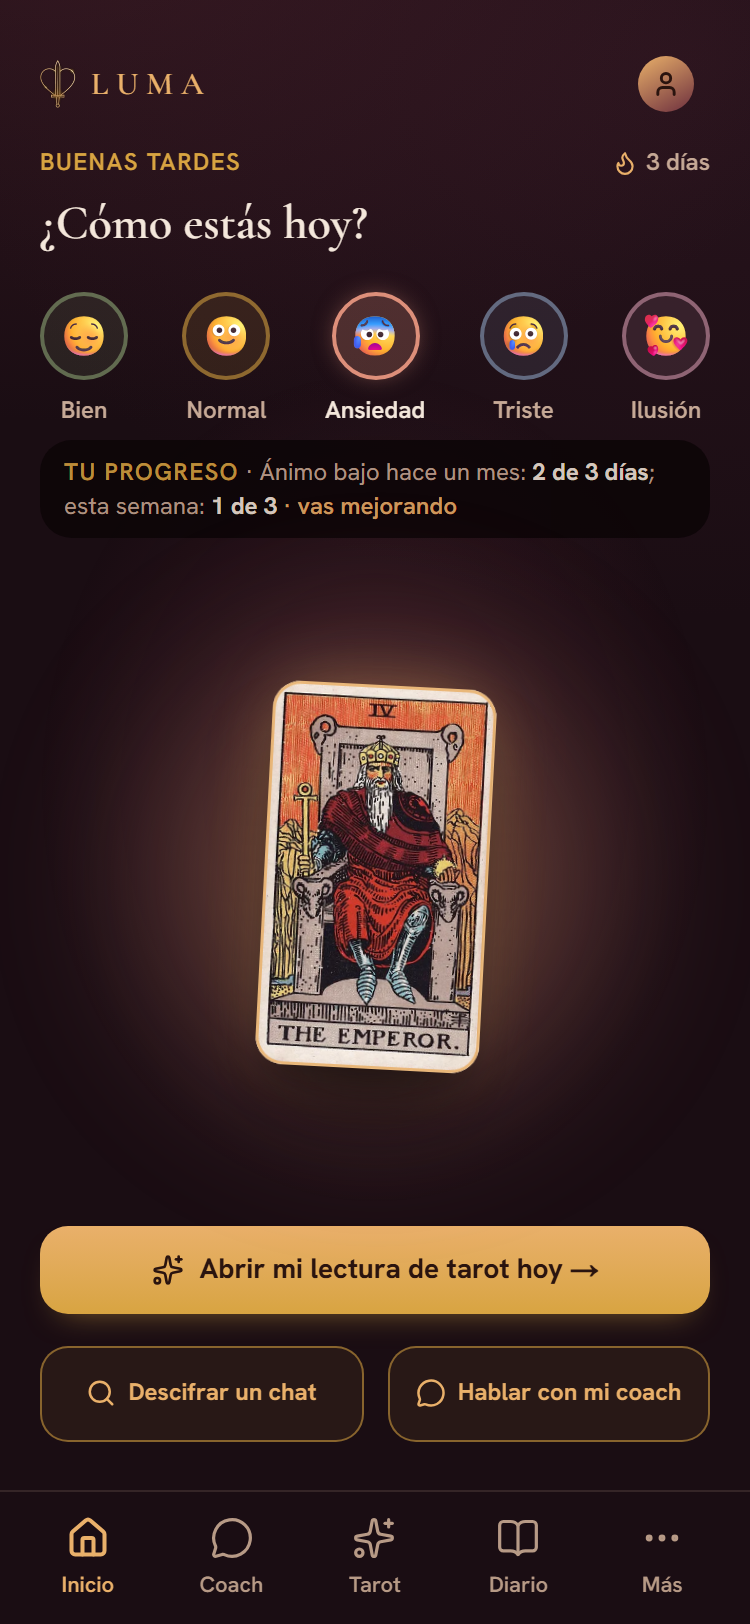
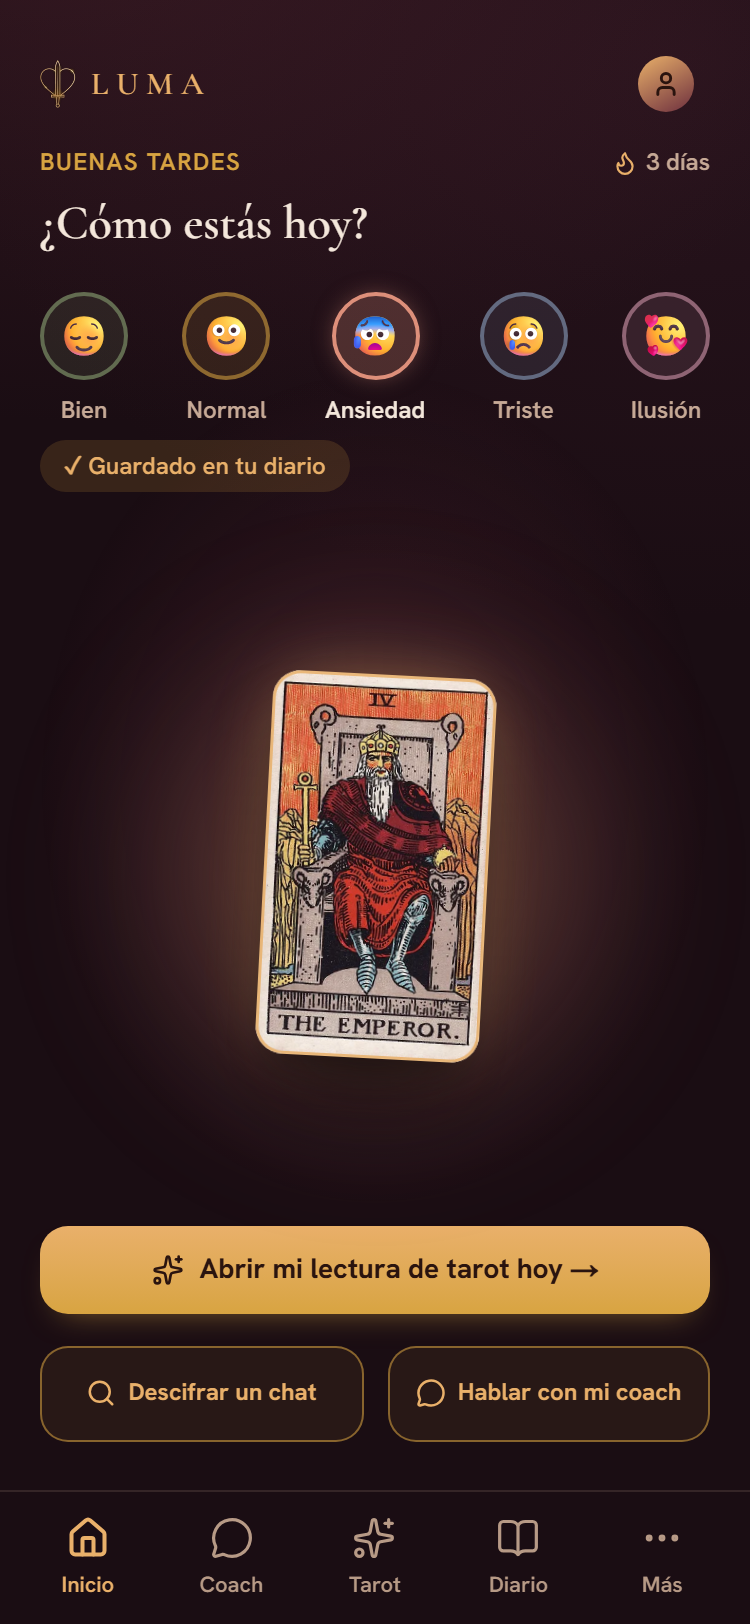
feat(inicio): pulso al guardar el ánimo, racha que cuenta y cajita de progreso en una sola idea

Changed region(s): [[0.3373, 0.4002, 0.6747, 0.6773], [0.0307, 0.2463, 0.6133, 0.3387], [0.644, 0.2771, 0.8587, 0.3079]]

diff --git a/app/app/(tabs)/page.tsx b/app/app/(tabs)/page.tsx
@@ -8,7 +8,7 @@
 
 import { useEffect, useRef, useState } from 'react';
 import Link from 'next/link';
-import { motion, AnimatePresence } from 'motion/react';
+import { motion, AnimatePresence, animate, useReducedMotion } from 'motion/react';
 import { Flame, MessageCircle, Search, Sparkles, User } from 'lucide-react';
 import { CartaGirando } from '@/components/app/CartaGirando';
 import { arcanoMayorAlAzar } from '@/lib/tarotDeck';
@@ -35,6 +35,9 @@ export default function InicioPage() {
   const [animo, setAnimo] = useState<string | null>(null);
   const [aviso, setAviso] = useState<'guardando' | 'guardado' | 'error' | null>(null);
   const [animoGuardado, setAnimoGuardado] = useState<string | null>(null);
+  const [pulso, setPulso] = useState(0);
+  const reducir = useReducedMotion();
+  const [rachaMostrada, setRachaMostrada] = useState(0);
   const temporizadorAviso = useRef<number | null>(null);
   useEffect(
     () => () => {
@@ -58,6 +61,16 @@ export default function InicioPage() {
     const carta = arcanoMayorAlAzar();
     setArcano({ nombre: carta.nombre, image: carta.image });
   }, []);
+
+  // La racha cuenta de 0 al valor real al llegar (con «reducir movimiento» aparece ya completa).
+  useEffect(() => {
+    if (racha < 2 || reducir) {
+      setRachaMostrada(racha);
+      return;
+    }
+    const control = animate(0, racha, { duration: 0.7, ease: 'easeOut', onUpdate: (v) => setRachaMostrada(Math.round(v)) });
+    return () => control.stop();
+  }, [racha, reducir]);
 
   useEffect(() => {
     const h = new Date().getHours();
@@ -138,6 +151,7 @@ export default function InicioPage() {
         return;
       }
       setAnimoGuardado(id);
+      setPulso((n) => n + 1);
       mostrarAviso('guardado');
       const desde = new Date();
       desde.setDate(desde.getDate() - VENTANA_DIAS);
@@ -189,7 +203,7 @@ export default function InicioPage() {
             {racha >= 2 && (
               <span className="flex items-center gap-1 text-[12px] font-semibold text-[var(--text-secondary)]">
                 <Flame size={13} strokeWidth={2} aria-hidden="true" className="text-[var(--accent-lite)]" />
-                {racha} días
+                {rachaMostrada} días
               </span>
             )}
           </div>
@@ -197,7 +211,7 @@ export default function InicioPage() {
             ¿Cómo estás hoy?
           </h1>
           <div className="mt-4 [@media(max-height:620px)]:mt-2">
-            <MoodPicker emociones={EMOCIONES_INICIO} seleccion={animo} onSeleccionar={elegirAnimo} bloqueado={aviso === 'guardando'} />
+            <MoodPicker emociones={EMOCIONES_INICIO} seleccion={animo} onSeleccionar={elegirAnimo} bloqueado={aviso === 'guardando'} pulso={pulso} />
           </div>
           {/* Justo debajo de los emojis: el aviso «Guardado en tu diario» y la cajita «Tu progreso» comparten el mismo hueco
               (el aviso sustituye a la cajita 2 s) para que no cambie la altura de la pantalla. La cajita es de 2 líneas: la
@@ -241,14 +255,14 @@ export default function InicioPage() {
                     className="rounded-[var(--radius-card)] bg-[color-mix(in_oklab,var(--bg)_70%,black)] px-3 py-2"
                   >
                     <p className="text-[12px] leading-snug text-[var(--text-secondary)]">
-                      <span className="font-semibold uppercase tracking-[0.06em] text-[var(--accent)]">Tu progreso</span> · Ánimo bajo hace un
-                      mes:{' '}
-                      <strong className="text-[var(--text-primary)]">
-                        {termometro.haceUnMes.negativos} de {termometro.haceUnMes.total} días
-                      </strong>
-                      ; esta semana:{' '}
+                      <span className="font-semibold uppercase tracking-[0.06em] text-[var(--accent)]">Tu progreso</span> · Días con ansiedad o
+                      tristeza: esta semana{' '}
                       <strong className="text-[var(--text-primary)]">
                         {termometro.estaSemana.negativos} de {termometro.estaSemana.total}
+                      </strong>
+                      , hace un mes{' '}
+                      <strong className="text-[var(--text-primary)]">
+                        {termometro.haceUnMes.negativos} de {termometro.haceUnMes.total}
                       </strong>
                       {termometro.estaSemana.negativos / termometro.estaSemana.total <
                         termometro.haceUnMes.negativos / termometro.haceUnMes.total && (

diff --git a/components/app/MoodPicker.tsx b/components/app/MoodPicker.tsx
@@ -4,7 +4,7 @@
 // propio por emoción, funcional (marca selección) no decorativo. Reutilizada en
 // Inicio (check-in del día) y Diario (registro emocional) con distintos sets.
 
-import { motion } from 'motion/react';
+import { motion, useReducedMotion } from 'motion/react';
 
 export interface Emocion {
   id: string;
@@ -19,13 +19,17 @@ export function MoodPicker({
   seleccion,
   onSeleccionar,
   bloqueado = false,
+  pulso = 0,
 }: {
   emociones: Emocion[];
   seleccion: string | null;
   onSeleccionar: (id: string) => void;
   /** Mientras se guarda: no admite más toques (cada toque guardaría un registro nuevo). */
   bloqueado?: boolean;
+  /** Sube cada vez que se confirma un guardado: el aro elegido da un pequeño pulso (celebración mínima). */
+  pulso?: number;
 }) {
+  const reducir = useReducedMotion();
   return (
     <div className="flex justify-between gap-1" role="radiogroup" aria-label="¿Cómo te sientes?" aria-busy={bloqueado}>
       {emociones.map((e) => {
@@ -43,6 +47,9 @@ export function MoodPicker({
             }`}
           >
             <motion.span
+              key={sel ? `${e.id}-${pulso}` : e.id}
+              animate={sel && pulso > 0 && !reducir ? { scale: [1, 1.18, 1] } : undefined}
+              transition={{ duration: 0.45, ease: 'easeOut' }}
               whileTap={{ scale: 0.92 }}
               className="flex size-11 items-center justify-center rounded-full text-[20px] leading-none"
               style={{

diff --git a/ESTADO.md b/ESTADO.md
@@ -1400,3 +1400,4 @@ DECISIÓN PENDIENTE de la dueña ANTES del 2026-11-12 12:00 UTC: (1) cancelar el
 - [veredicto:inicio] Ronda 2026-11-09 c (commit local 1bd9ba4: sin duplicados, error legible, cajita sin borde, stagger, menos tamaños): NO LISTA 31/40 · 15/20 (a: 27/15 · b: 30/15; 2026-10-27: LISTA 36/16). El revisor confirma los arreglos y pide más: (1) tocar el ánimo ya guardado no avisa y no hay deshacer; (2) el ánimo de hoy NO se restaura al reabrir Inicio (animo/animoGuardado nacen en null → se puede duplicar el registro del día) [real]; (3) cajita aún densa; (4) etiquetas a 12 px pesan igual; (5) sin celebración al guardar y los setTimeout de los avisos no se cancelan [real, menor]. Patrón de 3 rondas (27→30→31 con craft fijo en 15): llegar a 36/16 pide rediseño parcial; recomendado cerrar rondas de diseño. 1bd9ba4 SIN publicar (en producción está 38f9322). Decisión pendiente de la dueña también sobre el mínimo de la cajita de progreso (3 días / 2 días / mostrar siempre): en su cuenta admin hay 2 días esta semana y 1 hace un mes, por eso no sale.
 - 2026-11-09 (noche) — INICIO, opción 2 de la dueña: arreglado en local (sin publicar) lo REAL que marcó el revisor c: (a) al abrir Inicio se recupera el ánimo ya marcado hoy (el más reciente del día) y se deja seleccionado; (b) tocar el ánimo ya guardado lo confirma («✓ Guardado en tu diario») sin crear otro registro; cambiar a otro ánimo crea uno nuevo; (c) los avisos usan un solo temporizador (se cancela el anterior y al salir de la pantalla). Verificado en navegador con sesión simulada: al abrir marca «Triste» (había uno de hoy), tocar Triste = 0 registros nuevos, cambiar a Normal = 1, 3 toques rápidos = 1, error → mensaje legible y selección vacía. tsc ✓ · build ✓ · 59 pruebas ✓. No se re-lanzó el revisor (cierre de rondas de diseño recomendado; veredicto vigente [veredicto:inicio] NO LISTA 31/40·15/20). Commits locales sin publicar: 1bd9ba4 + este. Producción: 38f9322.
 - 2026-11-09 (noche) — PUBLICADO 011a5b9 (por «publica» de la dueña): Inicio con ánimo recordado, sin duplicados, error legible, cajita sin aspecto de botón y animaciones; incluye 1bd9ba4. Cajita «Tu progreso»: se queda con mínimo de 3 días por periodo (decisión de la dueña). [veredicto:inicio] vigente NO LISTA 31/40·15/20 (decisión de la dueña de publicar y cerrar rondas de diseño). Verificado en vivo con sesión simulada.
+- 2026-11-09 (noche) — INICIO ronda 4 (opción 1 de la dueña), en local SIN publicar: (a) celebración mínima: al confirmarse el guardado el aro del ánimo elegido da un pulso (escala 1,17; sin pulso con «reducir movimiento») y la racha cuenta de 0 a su valor al entrar (0,7 s; con «reducir movimiento» aparece completa); (b) cajita en una idea y con «ánimo bajo» explicado: «Tu progreso · Días con ansiedad o tristeza: esta semana 1 de 3, hace un mes 2 de 3 · vas mejorando» (2 líneas, 49 px). Medido: racha 1→2→3, huecos intactos (74/78 px a 375x812; 11/15 a 360x640). tsc ✓ build ✓. PENDIENTE (a) DESHACER del ánimo: la tabla `checkins` solo tiene políticas insert_own y select_own (sin delete ni update) → deshacer exige una migración en producción (política delete_own) y NO se ha aplicado; decisión de la dueña. Sin deshacer el revisor lo seguirá anotando.
